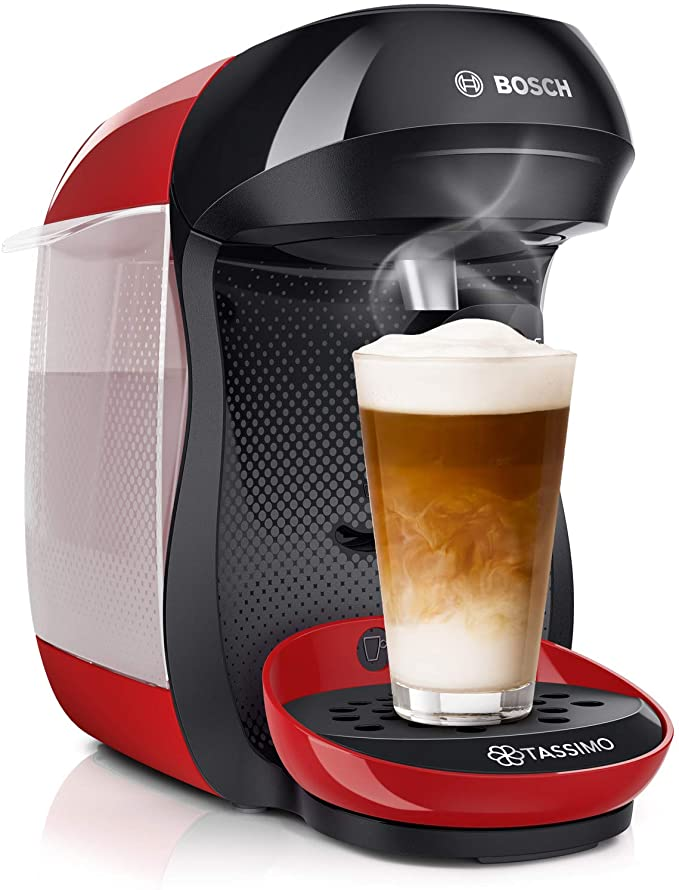
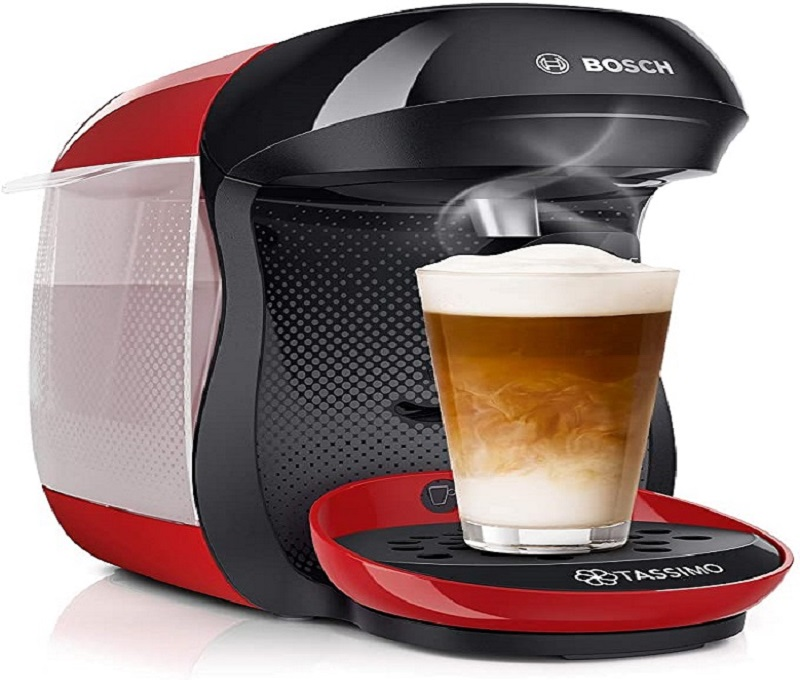
change style max-height image and change image

diff --git a/index.html b/index.html
@@ -54,7 +54,17 @@
             </section>
             <section class="product">
                 <div class="product-image">
-                    <img src="img/7.jpg" class="product-img" alt="p-1">
+                    <img src="img/71IEDawPXtL._AC_SX6798_.jpg" class="product-img" alt="p-1">
+                </div>
+                <div class="product-desc">
+                    <p class="product-title">lorem ipsum</p>
+                    <p class="product-price">product-price</p>
+                </div>
+                <button class="cart-btn">buy</button>
+            </section>
+            <section class="product">
+                <div class="product-image">
+                    <img src="img/10.jpg" class="product-img" alt="p-1">
                 </div>
                 <div class="product-desc">
                     <p class="product-title">lorem ipsum</p>

diff --git a/style.css b/style.css
@@ -68,7 +68,7 @@ body {
 .product-img {
     width: 100%;
     min-height: 120px;
-    max-height: 230px;
+    max-height: 260px;
     border-radius: 8px 8px 0 0;
 }
 
